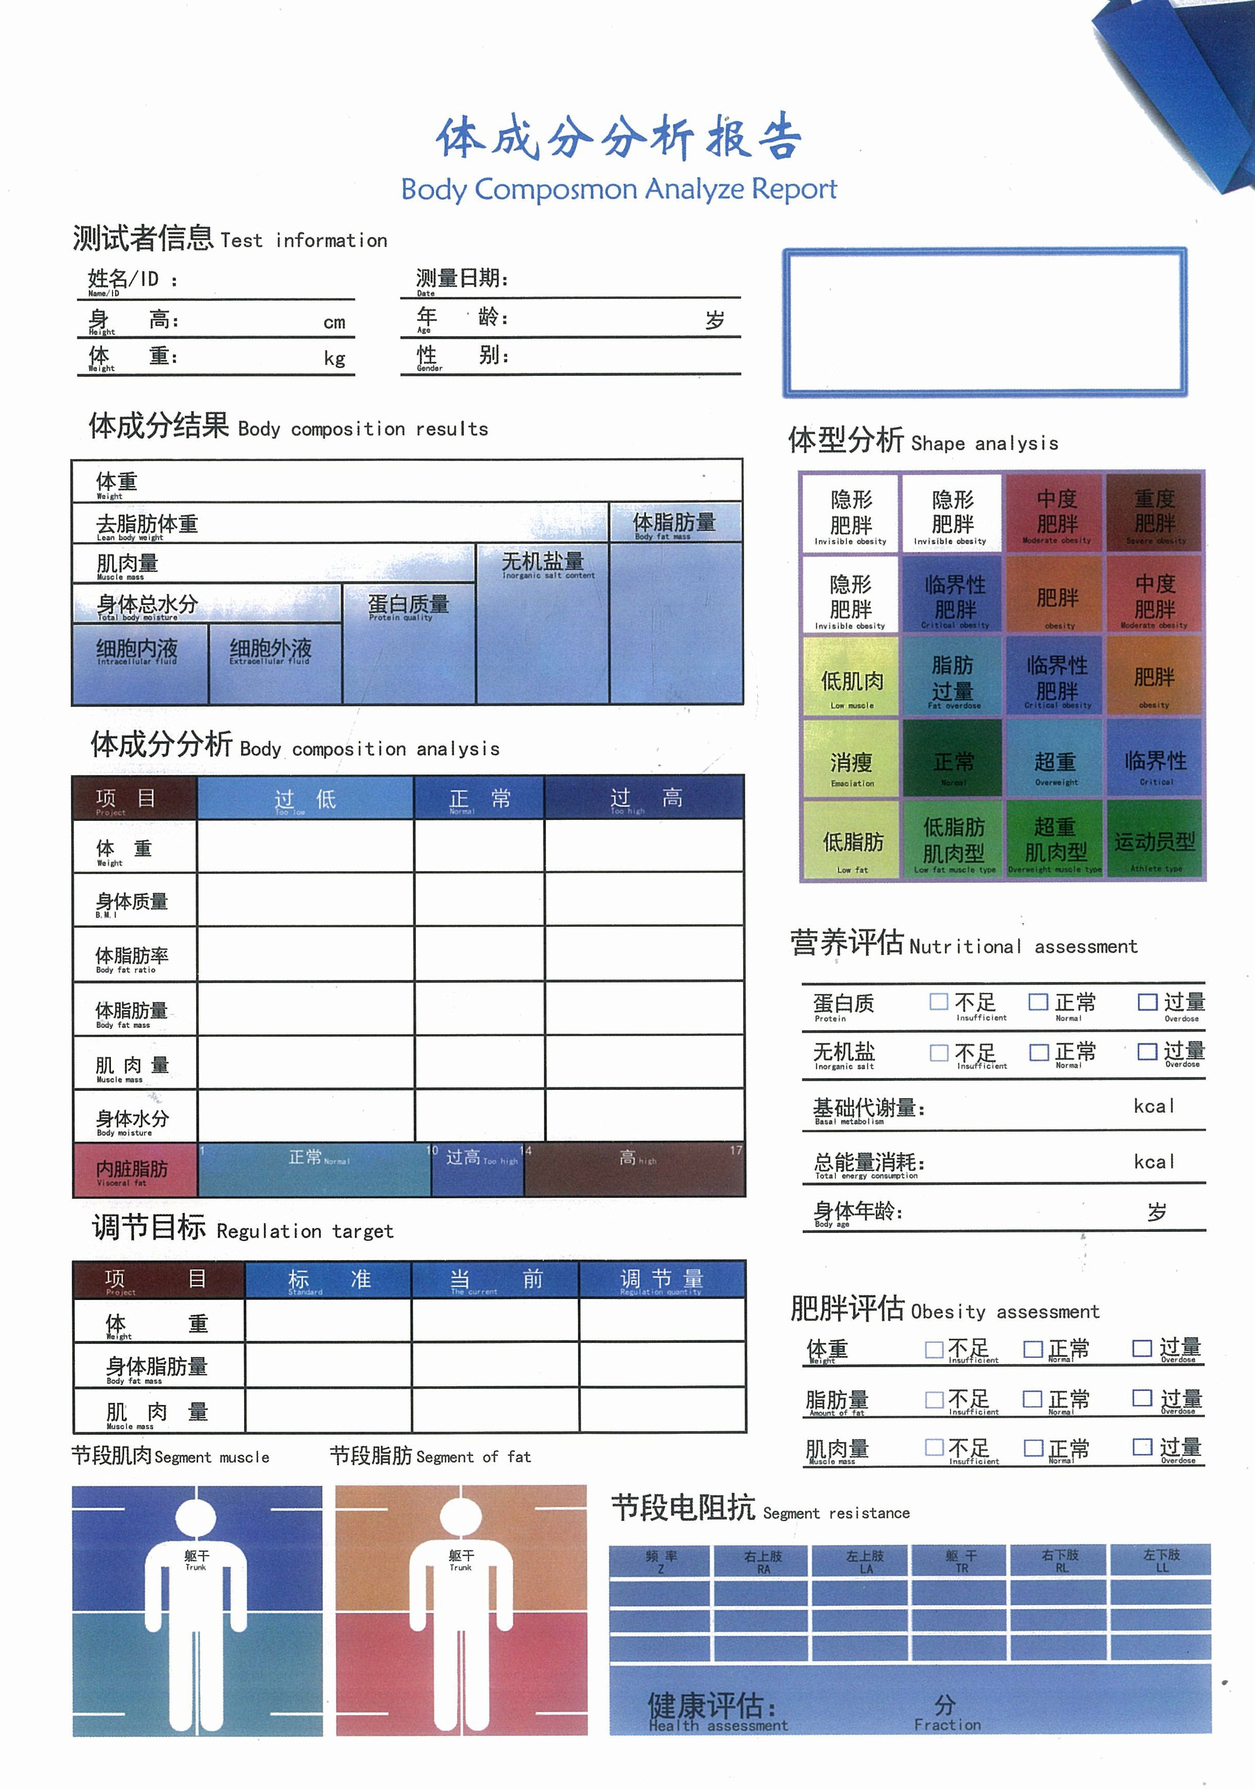
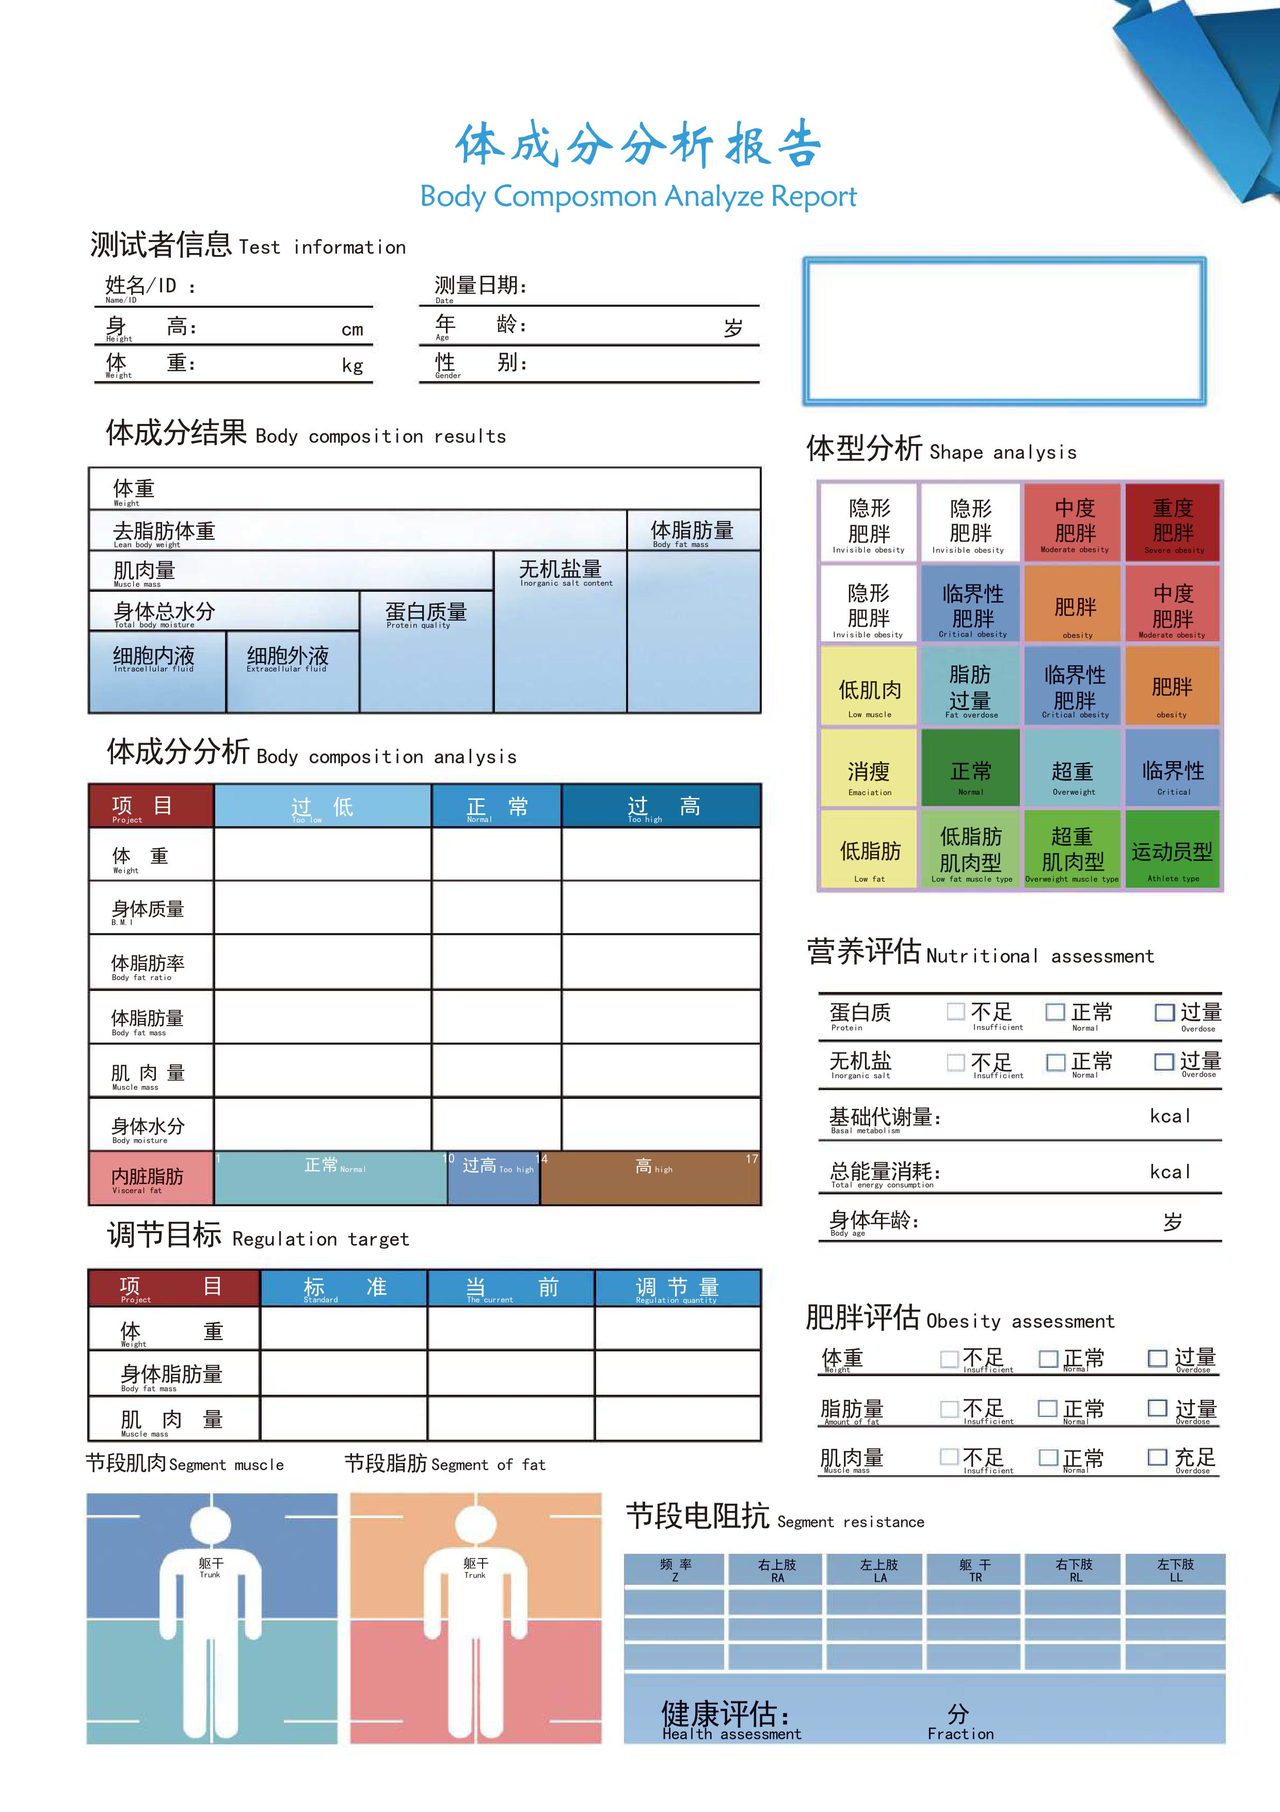
大幅度修正位置信息，已经适配HP1112打印机

diff --git a/BodyCompositionAnalyzer/src/main/java/com/example/tony/bodycompositionanalyzer/BodyComposition.java b/BodyCompositionAnalyzer/src/main/java/com/example/tony/bodycompositionanalyzer/BodyComposition.java
@@ -409,269 +409,276 @@ public class BodyComposition {
 
         /** 姓名 position: 841mm x 1189mm (33.11" x 46.81") */
         public static final Position 姓名 =
-                new Position(35 * 2836, 46 * 2836, 20 * 2836, 46810);
+                new Position(35 * 2836, 44 * 2836, 20 * 2836, 46810);
         public static final Position 身高 =
-                new Position(35 * 2836, 52 * 2836, 20 * 2836, 46810);
+                new Position(35 * 2836, 50 * 2836, 20 * 2836, 46810);
         public static final Position 体重1 =
-                new Position(35 * 2836, 58 * 2836, 20 * 2836, 46810);
+                new Position(35 * 2836, 56 * 2836, 20 * 2836, 46810);
 
         /** 姓名 position: 841mm x 1189mm (33.11" x 46.81") */
         public static final Position 测试日期 =
-                new Position(90 * 2836, 46 * 2836, 35 * 2836, 46810);
+                new Position(90 * 2836, 44 * 2836, 35 * 2836, 46810);
         public static final Position 年龄 =
-                new Position(90 * 2836, 52 * 2836, 20 * 2836, 46810);
+                new Position(90 * 2836, 50 * 2836, 20 * 2836, 46810);
         public static final Position 性别 =
-                new Position(90 * 2836, 58 * 2836, 20 * 2836, 46810);
+                new Position(90 * 2836, 56 * 2836, 20 * 2836, 46810);
 
         /* 2X. 休成分结果 */
         // 21 体重
         public static final Position 体重2 =
-                new Position(36 * 2836, 80 * 2836, 85 * 2836, 46810);
+                new Position(36 * 2836, 78 * 2836, 85 * 2836, 46810);
         // 22 去脂肪体重
         public static final Position 去脂肪体重 =
-                new Position(36 * 2836, 86 * 2836, 85 * 2836, 46810);
+                new Position(36 * 2836, 84 * 2836, 85 * 2836, 46810);
         // 23 肌肉量
         public static final Position 肌肉量 =
-                new Position(36 * 2836, 93 * 2836, 85 * 2836, 46810);
+                new Position(36 * 2836, 91 * 2836, 85 * 2836, 46810);
         // 24 身体总水分
         public static final Position 身体总水分 =
-                new Position(36 * 2836, 99 * 2836, 85 * 2836, 46810);
+                new Position(36 * 2836, 97 * 2836, 85 * 2836, 46810);
         // 25 细胞内液
         public static final Position 细胞内液 =
-                new Position(15 * 2836, 111 * 2836, 20 * 2836, 46810);
+                new Position(15 * 2836, 109 * 2836, 20 * 2836, 46810);
         // 26 细胞外液
         public static final Position 细胞外液 =
-                new Position(38 * 2836, 111 * 2836, 20 * 2836, 46810);
+                new Position(38 * 2836, 108 * 2836, 20 * 2836, 46810);
         // 27 蛋白质量
         public static final Position 蛋白质量 =
-                new Position(60 * 2836, 104 * 2836, 20 * 2836, 46810);
+                new Position(60 * 2836, 102 * 2836, 20 * 2836, 46810);
         // 28 无机盐量
         public static final Position 无机盐量 =
-                new Position(82 * 2836, 104 * 2836, 20 * 2836, 46810);
+                new Position(82 * 2836, 102 * 2836, 20 * 2836, 46810);
         // 29 体脂肪量
         public static final Position 体脂肪量 =
-                new Position(104 * 2836, 104 * 2836, 20 * 2836, 46810);
+                new Position(104 * 2836, 102 * 2836, 20 * 2836, 46810);
 
         /* 3X. 体成分分析 */
+        public static final int 体成分分析_X = 35 * 2836;
+        public static final int 体成分分析_Y_BASE = 138 * 2836;
+        public static final int 体成分分析_Y_RANGE = 9 * 2836;
         // 32 体重
         public static final Position 体成分分析_体重 =
-                new Position(34 * 2836, 140 * 2836, 33110, 46810);
+                new Position(体成分分析_X, 体成分分析_Y_BASE + 体成分分析_Y_RANGE * 0, 33110, 46810);
         // 32 身体质量
         public static final Position 体成分分析_身体质量 =
-                new Position(34 * 2836, 149 * 2836, 33110, 46810);
+                new Position(体成分分析_X, 体成分分析_Y_BASE + 体成分分析_Y_RANGE * 1, 33110, 46810);
         // 33 体脂肪率
         public static final Position 体成分分析_体脂肪率 =
-                new Position(34 * 2836, 158 * 2836, 33110, 46810);
+                new Position(体成分分析_X, 体成分分析_Y_BASE + 体成分分析_Y_RANGE * 2, 33110, 46810);
         // 34 体脂肪量
         public static final Position 体成分分析_体脂肪量 =
-                new Position(34 * 2836, 168 * 2836, 33110, 46810);
+                new Position(体成分分析_X, 体成分分析_Y_BASE + 体成分分析_Y_RANGE * 3, 33110, 46810);
         // 35 肌肉量
         public static final Position 体成分分析_肌肉量 =
-                new Position(34 * 2836, 176 * 2836, 33110, 46810);
+                new Position(体成分分析_X, 体成分分析_Y_BASE + 体成分分析_Y_RANGE * 4, 33110, 46810);
         // 36 身体水分
         public static final Position 体成分分析_身体水分 =
-                new Position(34 * 2836, 185 * 2836, 33110, 46810);
+                new Position(体成分分析_X, 体成分分析_Y_BASE + 体成分分析_Y_RANGE * 5, 33110, 46810);
         // 37 内脏脂肪
         public static final Position 体成分分析_内脏脂肪 =
-                new Position(34 * 2836, 194 * 2836, 33110, 46810);
+                new Position(体成分分析_X, 体成分分析_Y_BASE + 体成分分析_Y_RANGE * 6, 33110, 46810);
 
         /* 4X. 调节建议 */
         // 41 体重_标准
         public static final Position 体重_标准 =
-                new Position(58 * 2836, 219 * 2836, 33110, 46810);
+                new Position(58 * 2836, 218 * 2836, 33110, 46810);
         // 42 体重_当前
         public static final Position 体重_当前 =
-                new Position(85 * 2836, 219 * 2836, 33110, 46810);
+                new Position(85 * 2836, 218 * 2836, 33110, 46810);
         // 43 体重_调试量
         public static final Position 体重_调节量 =
-                new Position(112 * 2836, 219 * 2836, 33110, 46810);
+                new Position(112 * 2836, 218 * 2836, 33110, 46810);
         // 44 身体脂肪量_标准
         public static final Position 身体脂肪量_标准 =
-                new Position(58 * 2836, 227 * 2836, 33110, 46810);
+                new Position(58 * 2836, 226 * 2836, 33110, 46810);
         // 45 身体脂肪量_当前
         public static final Position 身体脂肪量_当前 =
-                new Position(85 * 2836, 227 * 2836, 33110, 46810);
+                new Position(85 * 2836, 226 * 2836, 33110, 46810);
         // 46 身体脂肪量_调试量
         public static final Position 身体脂肪量_调节量 =
-                new Position(112 * 2836, 227 * 2836, 33110, 46810);
+                new Position(112 * 2836, 226 * 2836, 33110, 46810);
         // 47 肌肉量_标准
         public static final Position 肌肉量_标准 =
-                new Position(58 * 2836, 235 * 2836, 33110, 46810);
+                new Position(58 * 2836, 233 * 2836, 33110, 46810);
         // 48 肌肉量_当前
         public static final Position 肌肉量_当前 =
-                new Position(85 * 2836, 235 * 2836, 33110, 46810);
+                new Position(85 * 2836, 233 * 2836, 33110, 46810);
         // 49 肌肉量_调节量
         public static final Position 肌肉量_调节量 =
-                new Position(112 * 2836, 235 * 2836, 33110, 46810);
+                new Position(112 * 2836, 233 * 2836, 33110, 46810);
 
         /* 5x 节段肌肉 */
         // 51 左上肢肌肉含量
         public static final Position 左上肢肌肉含量 =
-                new Position(13 * 2836, 253 * 2836, 12 * 2836, 46810);
+                new Position(13 * 2836, 251 * 2836, 12 * 2836, 46810);
 
         // 52 左下肢肌肉含量
         public static final Position 左下肢肌肉含量 =
-                new Position(13 * 2836, 275 * 2836, 12 * 2836, 46810);
+                new Position(13 * 2836, 273 * 2836, 12 * 2836, 46810);
 
         // 53 右上肢肌肉含量
         public static final Position 右上肢肌肉含量 =
-                new Position(41 * 2836, 253 * 2836, 12 * 2836, 46810);
+                new Position(41 * 2836, 251 * 2836, 12 * 2836, 46810);
 
         // 54 右下肢肌肉含量
         public static final Position 右下肢肌肉含量 =
-                new Position(41 * 2836, 275 * 2836, 12 * 2836, 46810);
+                new Position(41 * 2836, 273 * 2836, 12 * 2836, 46810);
 
         // 55 躯干肌肉含量
         public static final Position 躯干肌肉含量 =
-                new Position(28 * 2836, 262 * 2836, 12 * 2836, 46810);
+                new Position(28 * 2836, 260 * 2836, 12 * 2836, 46810);
 
         /* 6x 节段脂肪 */
         // 61 左上肢脂肪量
         public static final Position 左上肢脂肪量 =
-                new Position(58 * 2836, 253 * 2836, 12 * 2836, 46810);
+                new Position(58 * 2836, 251 * 2836, 12 * 2836, 46810);
 
         // 62 左下肢脂肪量
         public static final Position 左下肢脂肪量 =
-                new Position(58 * 2836, 275 * 2836, 12 * 2836, 46810);
+                new Position(58 * 2836, 273 * 2836, 12 * 2836, 46810);
 
         // 63 右上肢脂肪量
         public static final Position 右上肢脂肪量 =
-                new Position(87 * 2836, 253 * 2836, 12 * 2836, 46810);
+                new Position(87 * 2836, 251 * 2836, 12 * 2836, 46810);
 
         // 64 右下肢脂肪量
         public static final Position 右下肢脂肪量 =
-                new Position(87 * 2836, 275 * 2836, 12 * 2836, 46810);
+                new Position(87 * 2836, 273 * 2836, 12 * 2836, 46810);
 
         // 65 躯干脂肪量
         public static final Position 躯干肢脂肪量 =
-                new Position(72 * 2836, 262 * 2836, 12 * 2836, 46810);
+                new Position(72 * 2836, 260 * 2836, 12 * 2836, 46810);
+
+        public static final int 节段电阻抗_LINE1_Y = 260 * 2836;
+        public static final int 节段电阻抗_LINE2_Y = 264 * 2836;
+        public static final int 节段电阻抗_LINE3_Y = 268 * 2836;
 
         /* 7x 节段电阻抗 */
         // 71.频率
         public static final Position 频率_5k =
-                new Position(105 * 2836, 264 * 2836, 12 * 2836, 46810);
+                new Position(105 * 2836, 节段电阻抗_LINE1_Y, 12 * 2836, 46810);
 
         public static final Position 频率_50k =
-                new Position(105 * 2836, 268 * 2836, 12 * 2836, 46810);
+                new Position(105 * 2836, 节段电阻抗_LINE2_Y, 12 * 2836, 46810);
 
         public static final Position 频率_250k =
-                new Position(105 * 2836, 272 * 2836, 12 * 2836, 46810);
+                new Position(105 * 2836, 节段电阻抗_LINE3_Y, 12 * 2836, 46810);
 
         // 72.右上肢 x+16
         public static final Position 右上肢_5k =
-                new Position((105 + 1*17) * 2836, 264 * 2836, 12 * 2836, 46810);
+                new Position((105 + 1*17) * 2836, 节段电阻抗_LINE1_Y, 12 * 2836, 46810);
 
         public static final Position 右上肢_50k =
-                new Position((105 + 1*17) * 2836, 268 * 2836, 12 * 2836, 46810);
+                new Position((105 + 1*17) * 2836, 节段电阻抗_LINE2_Y, 12 * 2836, 46810);
 
         public static final Position 右上肢_250k =
-                new Position((105 + 1*17) * 2836, 272 * 2836, 12 * 2836, 46810);
+                new Position((105 + 1*17) * 2836, 节段电阻抗_LINE3_Y, 12 * 2836, 46810);
 
         // 73.左上肢 x+16
         public static final Position 左上肢_5k =
-                new Position((105 + 2*17) * 2836, 264 * 2836, 12 * 2836, 46810);
+                new Position((105 + 2*17) * 2836, 节段电阻抗_LINE1_Y, 12 * 2836, 46810);
 
         public static final Position 左上肢_50k =
-                new Position((105 + 2*17) * 2836, 268 * 2836, 12 * 2836, 46810);
+                new Position((105 + 2*17) * 2836, 节段电阻抗_LINE2_Y, 12 * 2836, 46810);
 
         public static final Position 左上肢_250k =
-                new Position((105 + 2*17) * 2836, 272 * 2836, 12 * 2836, 46810);
+                new Position((105 + 2*17) * 2836, 节段电阻抗_LINE3_Y, 12 * 2836, 46810);
 
         // 74.躯干 x+16
         public static final Position 躯干_5k =
-                new Position((105 + 3*17) * 2836, 264 * 2836, 12 * 2836, 46810);
+                new Position((105 + 3*17) * 2836, 节段电阻抗_LINE1_Y, 12 * 2836, 46810);
 
         public static final Position 躯干_50k =
-                new Position((105 + 3*17) * 2836, 268 * 2836, 12 * 2836, 46810);
+                new Position((105 + 3*17) * 2836, 节段电阻抗_LINE2_Y, 12 * 2836, 46810);
 
         public static final Position 躯干_250k =
-                new Position((105 + 3*17) * 2836, 272 * 2836, 12 * 2836, 46810);
+                new Position((105 + 3*17) * 2836, 节段电阻抗_LINE3_Y, 12 * 2836, 46810);
 
         // 75.右下肢 x+16
         public static final Position 右下肢_5k =
-                new Position((105 + 4*17) * 2836, 264 * 2836, 12 * 2836, 46810);
+                new Position((105 + 4*17) * 2836, 节段电阻抗_LINE1_Y, 12 * 2836, 46810);
 
         public static final Position 右下肢_50k =
-                new Position((105 + 4*17) * 2836, 268 * 2836, 12 * 2836, 46810);
+                new Position((105 + 4*17) * 2836, 节段电阻抗_LINE2_Y, 12 * 2836, 46810);
 
         public static final Position 右下肢_250k =
-                new Position((105 + 4*17) * 2836, 272 * 2836, 12 * 2836, 46810);
+                new Position((105 + 4*17) * 2836, 节段电阻抗_LINE3_Y, 12 * 2836, 46810);
 
         // 76.左下肢 x+16
         public static final Position 左下肢_5k =
-                new Position((105 + 5*17) * 2836, 264 * 2836, 12 * 2836, 46810);
+                new Position((105 + 5*17) * 2836, 节段电阻抗_LINE1_Y, 12 * 2836, 46810);
 
         public static final Position 左下肢_50k =
-                new Position((105 + 5*17) * 2836, 268 * 2836, 12 * 2836, 46810);
+                new Position((105 + 5*17) * 2836, 节段电阻抗_LINE2_Y, 12 * 2836, 46810);
 
         public static final Position 左下肢_250k =
-                new Position((105 + 5*17) * 2836, 272 * 2836, 12 * 2836, 46810);
+                new Position((105 + 5*17) * 2836, 节段电阻抗_LINE3_Y, 12 * 2836, 46810);
 
         /* 8x 肥胖评估 */
         // 81.体重
         public static final Position 肥胖评估_体重_不足 =
-                new Position(155 * 2836, 220 * 2836, 4 * 2836, 46810);
+                new Position(153 * 2836, 216 * 2836, 4 * 2836, 46810);
 
         public static final Position 肥胖评估_体重_正常 =
-                new Position((155 + 17) * 2836, 220 * 2836, 4 * 2836, 46810);
+                new Position((153 + 17) * 2836, 216 * 2836, 4 * 2836, 46810);
 
         public static final Position 肥胖评估_体重_过量 =
-                new Position((155 + 35) * 2836, 220 * 2836, 4 * 2836, 46810);
+                new Position((153 + 35) * 2836, 216 * 2836, 4 * 2836, 46810);
 
         // 82.脂肪量
         public static final Position 肥胖评估_脂肪量_不足 =
-                new Position(155 * 2836, 228 * 2836, 12 * 2836, 46810);
+                new Position(153 * 2836, 224 * 2836, 12 * 2836, 46810);
 
         public static final Position 肥胖评估_脂肪量_正常 =
-                new Position((155 + 17) * 2836, 228 * 2836, 12 * 2836, 46810);
+                new Position((153 + 17) * 2836, 224 * 2836, 12 * 2836, 46810);
 
         public static final Position 肥胖评估_脂肪量_过量 =
-                new Position((155 + 35) * 2836, 228 * 2836, 12 * 2836, 46810);
+                new Position((153 + 35) * 2836, 224 * 2836, 12 * 2836, 46810);
 
         // 83.肌肉量
         public static final Position 肥胖评估_肌肉量_不足 =
-                new Position(155 * 2836, 236 * 2836, 12 * 2836, 46810);
+                new Position(153 * 2836, 232 * 2836, 12 * 2836, 46810);
 
         public static final Position 肥胖评估_肌肉量_正常 =
-                new Position((155 + 17) * 2836, 236 * 2836, 12 * 2836, 46810);
+                new Position((153 + 17) * 2836, 232 * 2836, 12 * 2836, 46810);
 
         public static final Position 肥胖评估_肌肉量_过量 =
-                new Position((155 + 35) * 2836, 236 * 2836, 12 * 2836, 46810);
+                new Position((153 + 35) * 2836, 232 * 2836, 12 * 2836, 46810);
 
         /* 9x 营养评估 */
         // 91.蛋白质
         public static final Position 营养评估_蛋白质_不足 =
-                new Position(155 * 2836, 163 * 2836, 4 * 2836, 46810);
+                new Position(155 * 2836, 159 * 2836, 4 * 2836, 46810);
 
         public static final Position 营养评估_蛋白质_正常 =
-                new Position((155 + 17) * 2836, 163 * 2836, 4 * 2836, 46810);
+                new Position((155 + 17) * 2836, 159 * 2836, 4 * 2836, 46810);
 
         public static final Position 营养评估_蛋白质_过量 =
-                new Position((155 + 35) * 2836, 163 * 2836, 4 * 2836, 46810);
+                new Position((155 + 35) * 2836, 159 * 2836, 4 * 2836, 46810);
 
         // 92.无机盐
         public static final Position 营养评估_无机盐_不足 =
-                new Position(155 * 2836, 171 * 2836, 12 * 2836, 46810);
+                new Position(155 * 2836, 167 * 2836, 12 * 2836, 46810);
 
         public static final Position 营养评估_无机盐_正常 =
-                new Position((155 + 17) * 2836, 171 * 2836, 12 * 2836, 46810);
+                new Position((155 + 17) * 2836, 167 * 2836, 12 * 2836, 46810);
 
         public static final Position 营养评估_无机盐_过量 =
-                new Position((155 + 35) * 2836, 171 * 2836, 12 * 2836, 46810);
+                new Position((155 + 35) * 2836, 167 * 2836, 12 * 2836, 46810);
 
         // 93.基础代谢量
         public static final Position 基础代谢量 =
-                new Position(171 * 2836, 184 * 2836, 12 * 2836, 46810);
+                new Position(171 * 2836, 180 * 2836, 12 * 2836, 46810);
         // 94.总能量消耗
         public static final Position 总能量消耗 =
-                new Position(171 * 2836, 192 * 2836, 12 * 2836, 46810);
+                new Position(171 * 2836, 188 * 2836, 12 * 2836, 46810);
         // 95.身体年龄
         public static final Position 身体年龄 =
-                new Position(171 * 2836, 200 * 2836, 12 * 2836, 46810);
+                new Position(171 * 2836, 196 * 2836, 12 * 2836, 46810);
 
         // 10x.健康评估
         public static final Position 健康评估 =
-                new Position(135 * 2836, 280 * 2836, 18 * 2836, 46810);
+                new Position(135 * 2836, 272 * 2836, 18 * 2836, 46810);
         /**
          * Creates a new instance.
          * @param widthMils The width in mils (thousands of an inch).

diff --git a/BodyCompositionAnalyzer/src/main/java/com/example/tony/bodycompositionanalyzer/BodyCompositionAnalyzer.java b/BodyCompositionAnalyzer/src/main/java/com/example/tony/bodycompositionanalyzer/BodyCompositionAnalyzer.java
@@ -582,7 +582,8 @@ public class BodyCompositionAnalyzer {
 					// 将图片拉伸至整个页面
 					canvas.drawBitmap(bm, null, new Rect(
 									0,
-									0, PrintAttributes.MediaSize.ISO_A4.getWidthMils() * 72 / 1000,
+									0,
+									PrintAttributes.MediaSize.ISO_A4.getWidthMils() * 72 / 1000,
 									PrintAttributes.MediaSize.ISO_A4.getHeightMils() * 72 / 1000),
 							null);
 				}
